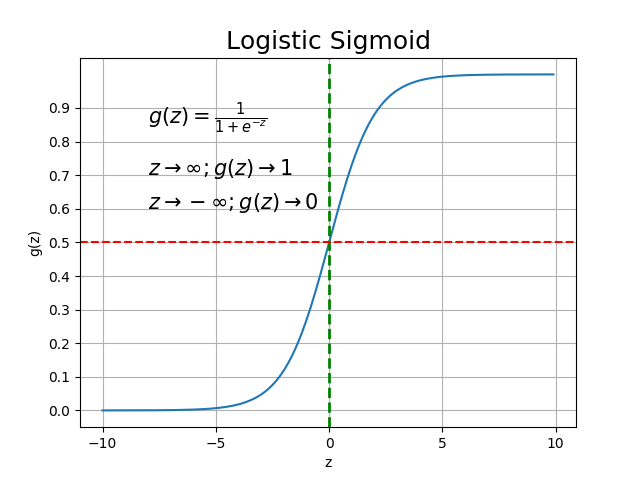
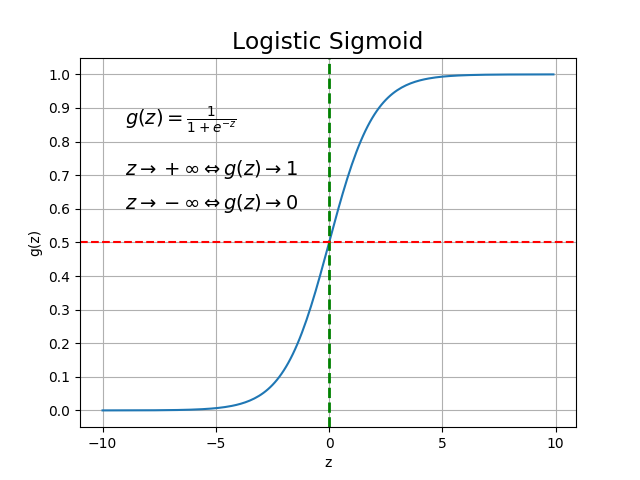
sigmoid update

diff --git a/rise_of_machines/sigmoid.py b/rise_of_machines/sigmoid.py
@@ -35,24 +35,24 @@ s = sigmoid(x)
 plt.plot(x, s)
 plt.grid()
 
-plt.rc('axes', labelsize=13)
-plt.rc('font', size=15)
+plt.rc('axes', labelsize=14)
+plt.rc('font', size=14)
 
 plt.title('Logistic Sigmoid')
 plt.xlabel('z')
 plt.ylabel('g(z)')
 
 # set some math info on the graph
-plt.text(-8.0, 0.85, r'$g(z) = \frac{1}{1 + e^{-z}}$')
-plt.text(-8.0, 0.70, r'$z \rightarrow \infty  ; g(z) \rightarrow 1$')
-plt.text(-8.0, 0.60, r'$z \rightarrow -\infty  ; g(z) \rightarrow 0$')
+plt.text(-9.0, 0.85, r'$g(z) = \frac{1}{1 + e^{-z}}$')
+plt.text(-9.0, 0.70, r'$z \rightarrow +\infty \Leftrightarrow g(z) \rightarrow 1$')
+plt.text(-9.0, 0.60, r'$z \rightarrow -\infty \Leftrightarrow g(z) \rightarrow 0$')
 
 # draw dotted lines crossing at (0, 0.5)
 plt.axvline(linewidth=2, color='g', linestyle='dashed')
 plt.axhline(y=0.5, color='r', linestyle='dashed')
 
 plt.xticks()
-plt.yticks(np.arange(0.0, 1.0, 0.1))
+plt.yticks(np.arange(0.0, 1.1, 0.1))
 plt.grid(True)
 
 # plt.savefig('../images/sigmoid.png')
